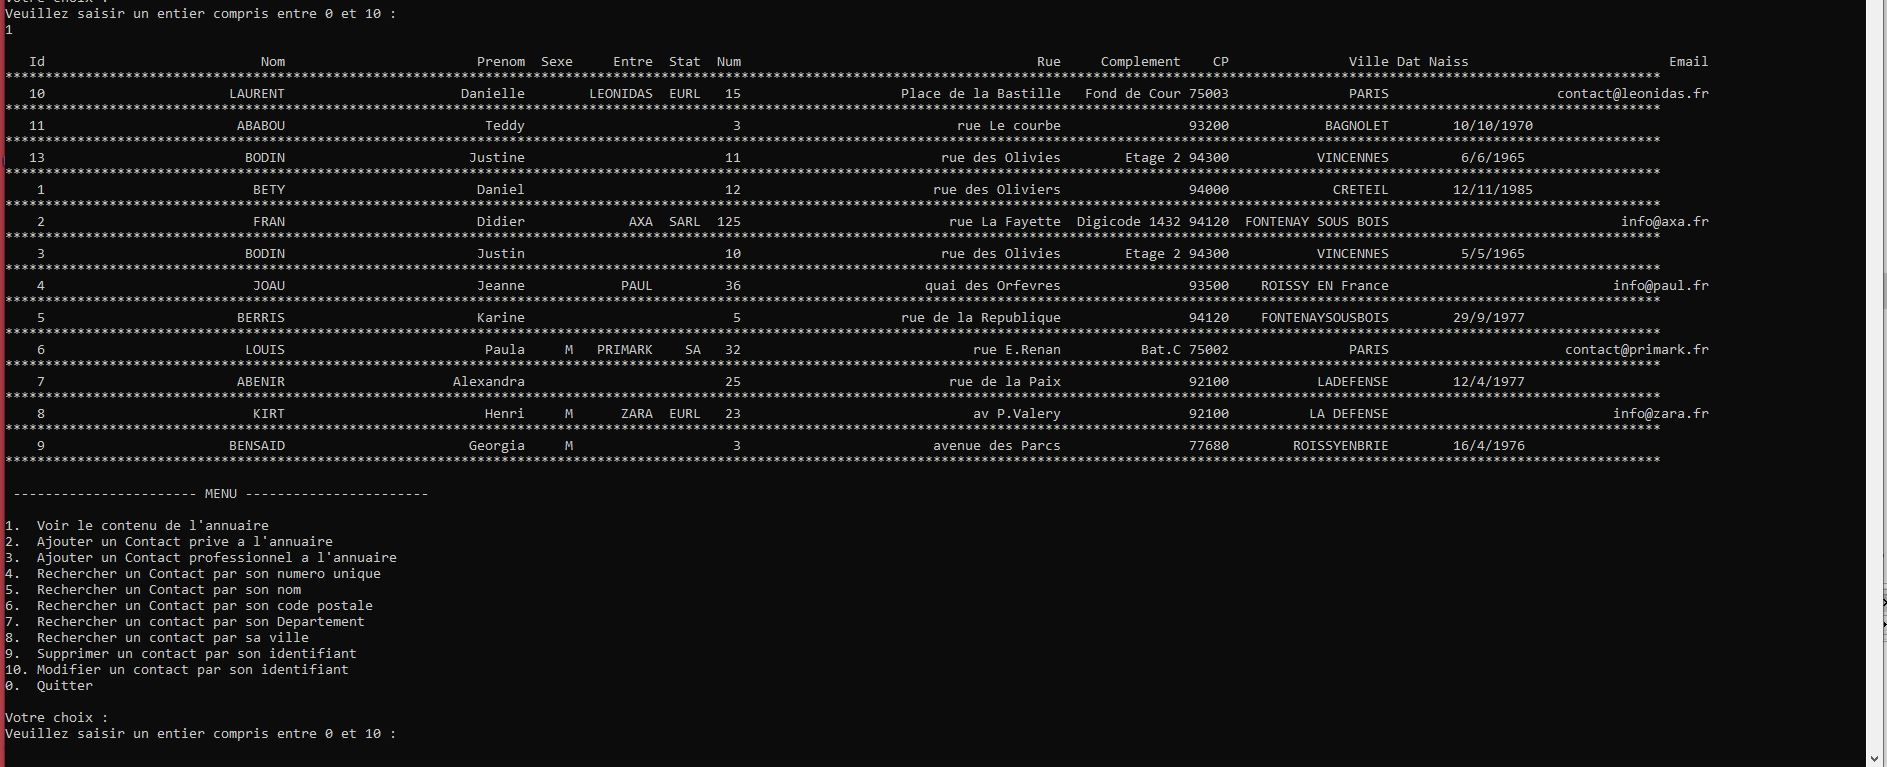
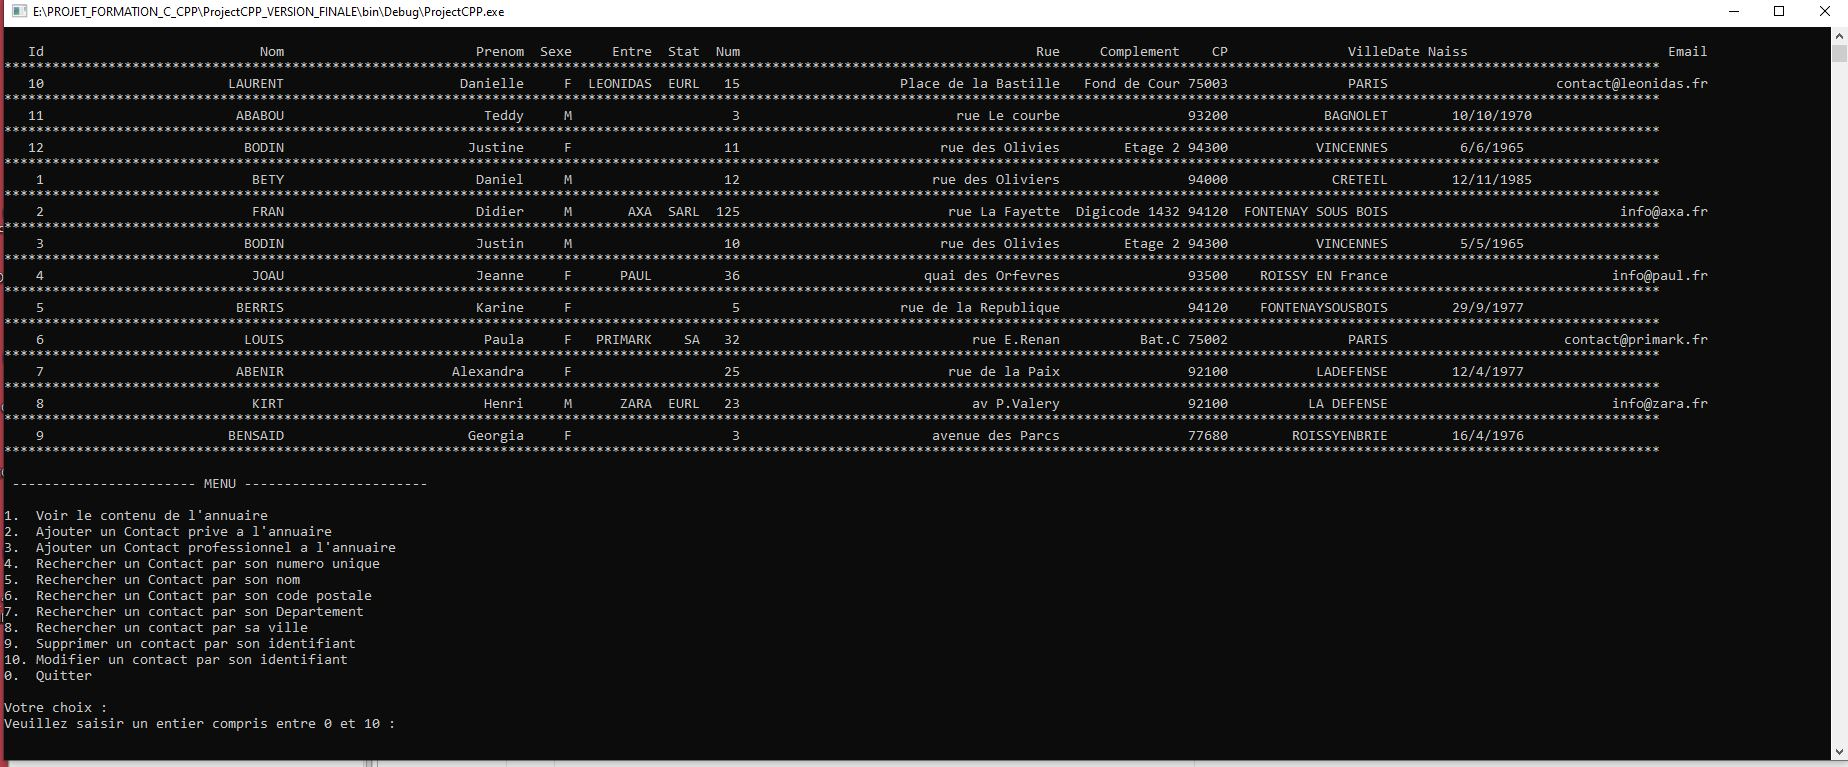
modif read.me

Changed region(s): [[0.0, 0.0, 1.0, 1.0]]

diff --git a/Annuaire.cpp b/Annuaire.cpp
@@ -189,9 +189,9 @@ namespace Manage {
                      cout << "Aucun contact dans la liste" << endl << endl;
                      return;
               }
-                  cout <<setw(5)    << "Id"
-                   <<setw(30)   << "Nom"
-                   << setw(30)  << "Prenom"
+                          cout <<setw(5)    << "Id"
+                               <<setw(30)   << "Nom"
+                               << setw(30)  << "Prenom"
 				   << setw(6)   << "Sexe"
 				   << setw(10)  << "Entre"
 				   << setw(6)   << "Stat"
@@ -200,7 +200,7 @@ namespace Manage {
 				   << setw(15)  << "Complement"
 				   << setw(6)   << "CP"
 				   << setw(20)  << "Ville"
-                               << setw(10)  << "Dat Naiss"
+                               << setw(10)  << "Date Naiss"
                                << setw(30)  << "Email"								<< endl;
               cout
                             << "***************************************************************************************************************************************************************************************************************"
@@ -240,7 +240,7 @@ namespace Manage {
 				   << setw(15)  << "Complement"
 				   << setw(6)   << "CP"
 				   << setw(20)  << "Ville"
-				   << setw(10)  << "Dat Naiss"
+				   << setw(10)  << "Date Naiss"
                                << setw(30)  << "Email"								<< endl;
               cout
                             << "***************************************************************************************************************************************************************************************************************"

diff --git a/Contact.hpp b/Contact.hpp
@@ -44,6 +44,7 @@ namespace Heritage
                      this->identifiant = identifiant;
                      this->s = s;
                      this->f = f;
+                     this->set_sexe(sexe);
                      this->adressePostale = adressePostale;
                      this->utils = new Utils();
               }
@@ -130,7 +131,8 @@ namespace Heritage
 
               void set_sexe(string sex)
               {
-                     if(sex == "M")
+                     int x = sex.compare("M");
+                     if(x == 0)
                         this->s = M;
                      else
                          this->s = F;
